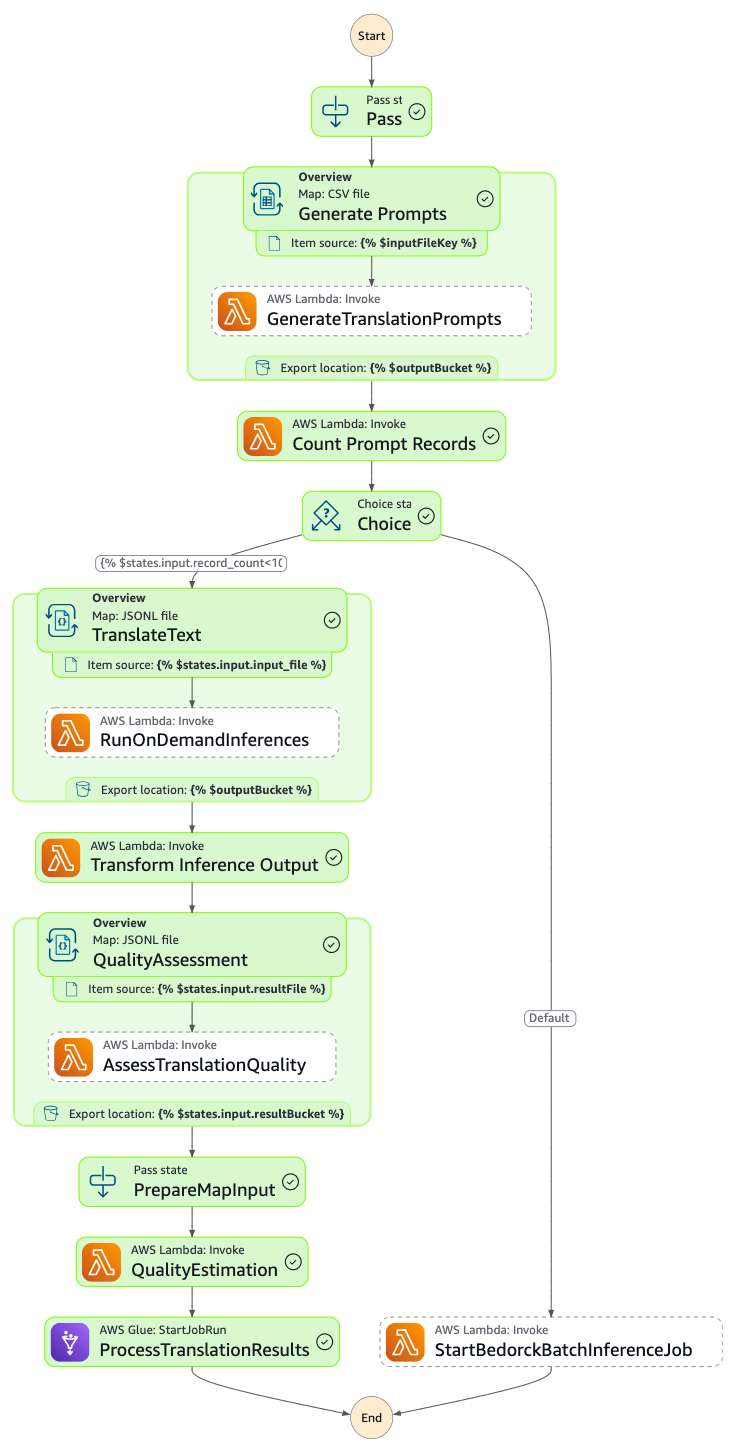
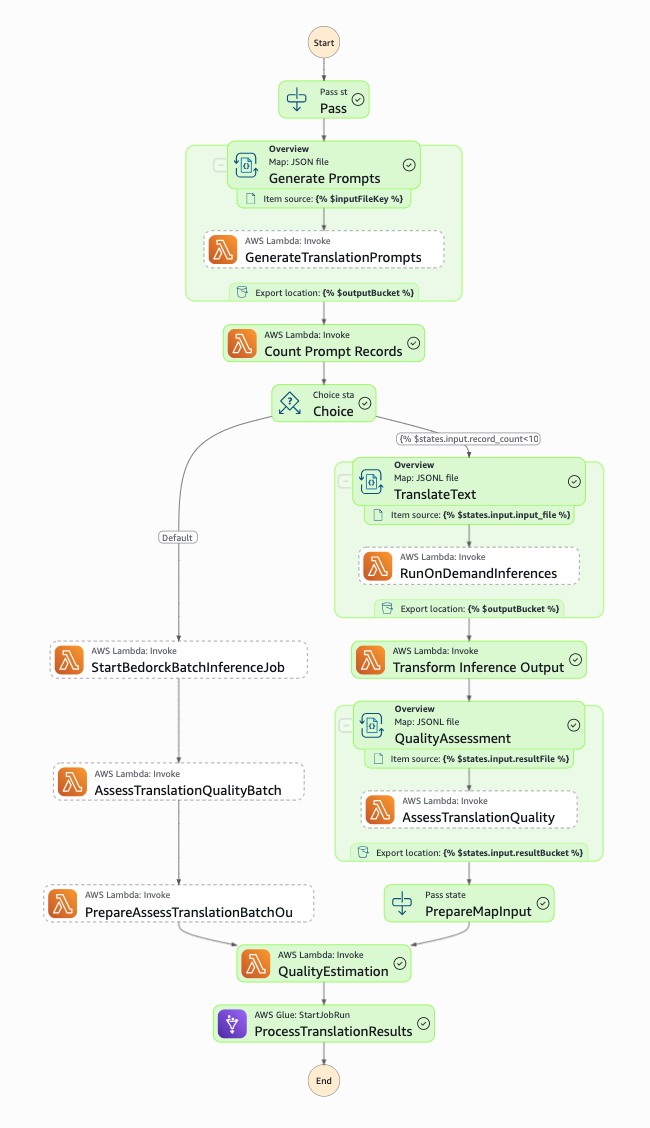
Updated README and added Solution ID to Stack

diff --git a/deployment/app.py b/deployment/app.py
@@ -22,7 +22,9 @@ database_stack = DatabaseStack(app, "DatabaseStack", vpc_id=vpc_id)
 sagemaker_stack = SageMakerStack(app, "SageMakerStack")
 
 # Deploy Workflow Stack with marketplace endpoint if specified
-workflow_stack = WorkflowStack(app, "WorkflowStack")
+workflow_stack = WorkflowStack(app,
+            "WorkflowStack",
+            description=f"SO9534 - Guidance for Machine Translation Pipelines Using Generative AI on AWS")
 
 # Add comprehensive suppressions for Glue role
 NagSuppressions.add_resource_suppressions_by_path(

diff --git a/README.md b/README.md
@@ -240,17 +240,21 @@ aws stepfunctions describe-state-machine --state-machine-arn arn:aws:states:<reg
 
 ### Prepare Input Data
 
-1. Create a CSV file with the following columns:
-   - source_language: The language code of the source text
-   - target_language: The language code of the target text
-   - source_text: The text to be translated
-   - context: (Optional) Additional context to improve translation quality
+1. Create a JSON file matching the following structure:
+```json
+[
+    {
+        "source_text": <your_source_text>,
+        "source_lang": <source_language>,
+        "target_lang": <target_language>
+    }
+]
+```
+   You can find a sample file (sample_test.json) in the sample_data folder
 
-   You can find a sample file (sample_test.csv) in the sample_data folder
-
-2. Upload the CSV file to your input S3 bucket:
+2. Upload the JSON file to your input S3 bucket:
 ```bash
-aws s3 cp your-input-file.csv s3://your-input-bucket-name/inputs/your-input-file.csv
+aws s3 cp your-input-file.json s3://your-input-bucket-name/inputs/your-input-file.json
 ```
 
 ### Start the Translation Workflow
@@ -259,7 +263,7 @@ aws s3 cp your-input-file.csv s3://your-input-bucket-name/inputs/your-input-file
 ```bash
 aws stepfunctions start-execution \
   --state-machine-arn arn:aws:states:<region>:<account-id>:stateMachine:BatchMachineTranslationStateMachineCDK \
-  --input '{"callerId": "user123", "inputFileKey": "inputs/your-input-file.csv", "inputBucket": "your-input-bucket", "outputBucket": "your-input-bucket"}'
+  --input '{"callerId": "user123", "inputFileKey": "inputs/your-input-file.json", "inputBucket": "your-input-bucket", "outputBucket": "your-input-bucket"}'
 ```
 
 You may also start the workflow from the console by opening the state machine configuration and clicking the Execute button.
@@ -268,7 +272,7 @@ You may also start the workflow from the console by opening the state machine co
 
 The pipeline accepts the following input parameters:
 - `callerId` (required): A unique identifier for tracking the translation job and organizing output files
-- `inputFileKey` (required): The S3 object key path to your CSV input file containing the translation requests
+- `inputFileKey` (required): The S3 object key path to your JSON input file containing the translation requests
 - `inputBucket` (required): Input bucket
 - `outputBucket` (required): Output bucket containing all generated files by the state machine
 
@@ -278,10 +282,8 @@ Once the state machine has run you should be able to view its entire execution a
 
 <img src="assets/images/state-machine-exec.png" alt="State Machine Execution" width="500" height="950"/>
 
-Please note that the state machine is configured to invoke Bedrock through the real-time API for any input file that includes 100 records or leszs (left side of the state machine). Beyond this threshold, the state machine swicthes to Amazon Bedrock Batch Inference mode (right side of the state machine).
-
-> [!WARNING]  
-> As of 07/09/2025 the batch mode is partially implemented. We recommend experimenting with payloads of 100 records or less, until we deliver the full batch functionality.
+Please note that the state machine is configured to invoke Bedrock through the real-time API for any input file that includes 100 records or less (right side of the state machine). Beyond this threshold, the state machine switches to Amazon Bedrock Batch Inference mode (left side of the state machine).
+Both the real time and batch mode achieve the same actions. The main difference is how the state machine steps interact with Amazon Bedrock (real time inference vs batch job).
 
 ### Lambda Function Configuration
 
@@ -469,6 +471,7 @@ To configure caller-specific models:
   "assessment_model_id.premium_user": "arn:aws:bedrock:us-west-2:123456789012:application-inference-profile/abc123def456"
 }
 ```
+You may need to double check whether the roles attached to the Lambda functions included in the state machine are granted access to your custom inference profile.
 
 ### Custom Prompt Templates
 
